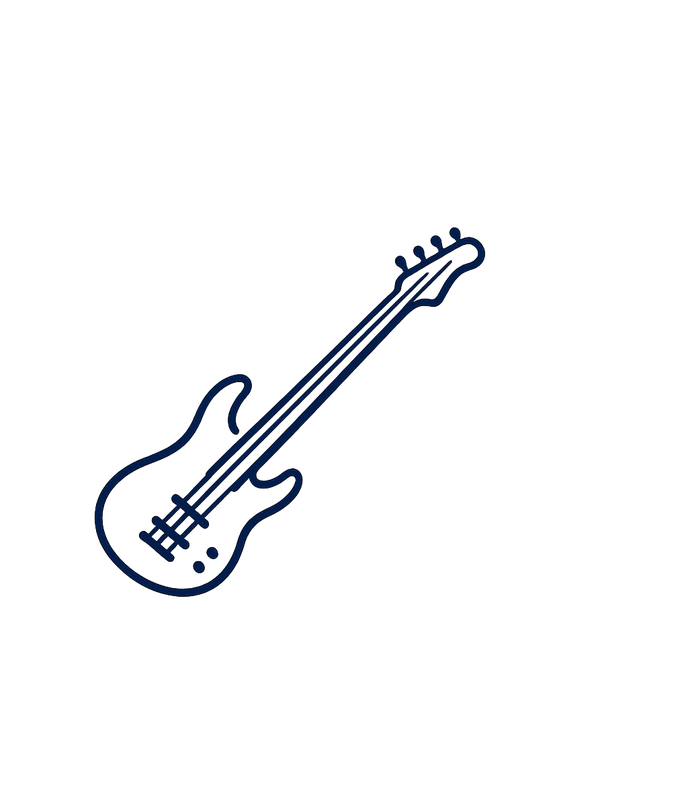
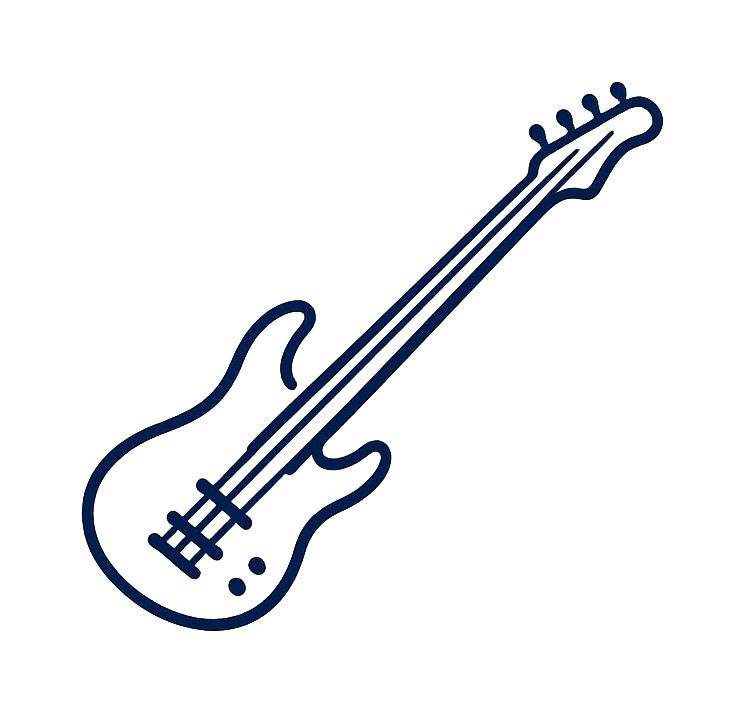
Ícones para todas as disciplinas de música + correções de tamanho
Adiciona os ícones de Acordeão, Canto, Concertina, Piano, Saxofone e
Teoria Musical (mesma extração por canal alfa; Piano e Acordeão
tinham o padrão de xadrez gravado nos pixels em vez de transparência
real, tratados por limiar de luminosidade).

Corrige um recorte assimétrico: um resíduo de brilho com alfa quase
zero estendia-se muito além do desenho visível em alguns ícones (a
Bateria, por exemplo), deslocando-a para cima dentro do cartão. O
recorte agora ignora esse resíduo (limiar mínimo de alfa) antes de
calcular a área a preservar, ficando com margens simétricas.

Aumenta também a Guitarra e o Baixo Elétrico dentro do cartão, a
pedido do utilizador.

Changed region(s): [[0.0918, 0.0927, 0.8878, 0.8961]]

diff --git a/src/app/aluno/pedido/page.tsx b/src/app/aluno/pedido/page.tsx
@@ -5,6 +5,15 @@ import { escolherDisponibilidades } from '@/lib/actions/aluno'
 import { DIAS_SEMANA } from '@/lib/dias-semana'
 import { OptionCard } from '@/components/option-card'
 
+// Afinação fina do tamanho de cada ícone de instrumento dentro do cartão
+// (percentagem de espaço à volta — menos padding = ícone maior). Sem
+// entrada aqui, usa o valor por omissão definido em globals.css.
+const ICONE_PADDING: Record<string, string | undefined> = {
+  Guitarra: '14%',
+  'Baixo Elétrico': '14%',
+  Bateria: '18%',
+}
+
 export default async function PedidoPage({
   searchParams,
 }: {
@@ -73,7 +82,7 @@ export default async function PedidoPage({
               nome={i.nome}
               imagemUrl={i.imagem_url}
               icone
-              iconePadding={i.nome === 'Bateria' ? '18%' : undefined}
+              iconePadding={ICONE_PADDING[i.nome]}
             />
           ))}
         </div>
